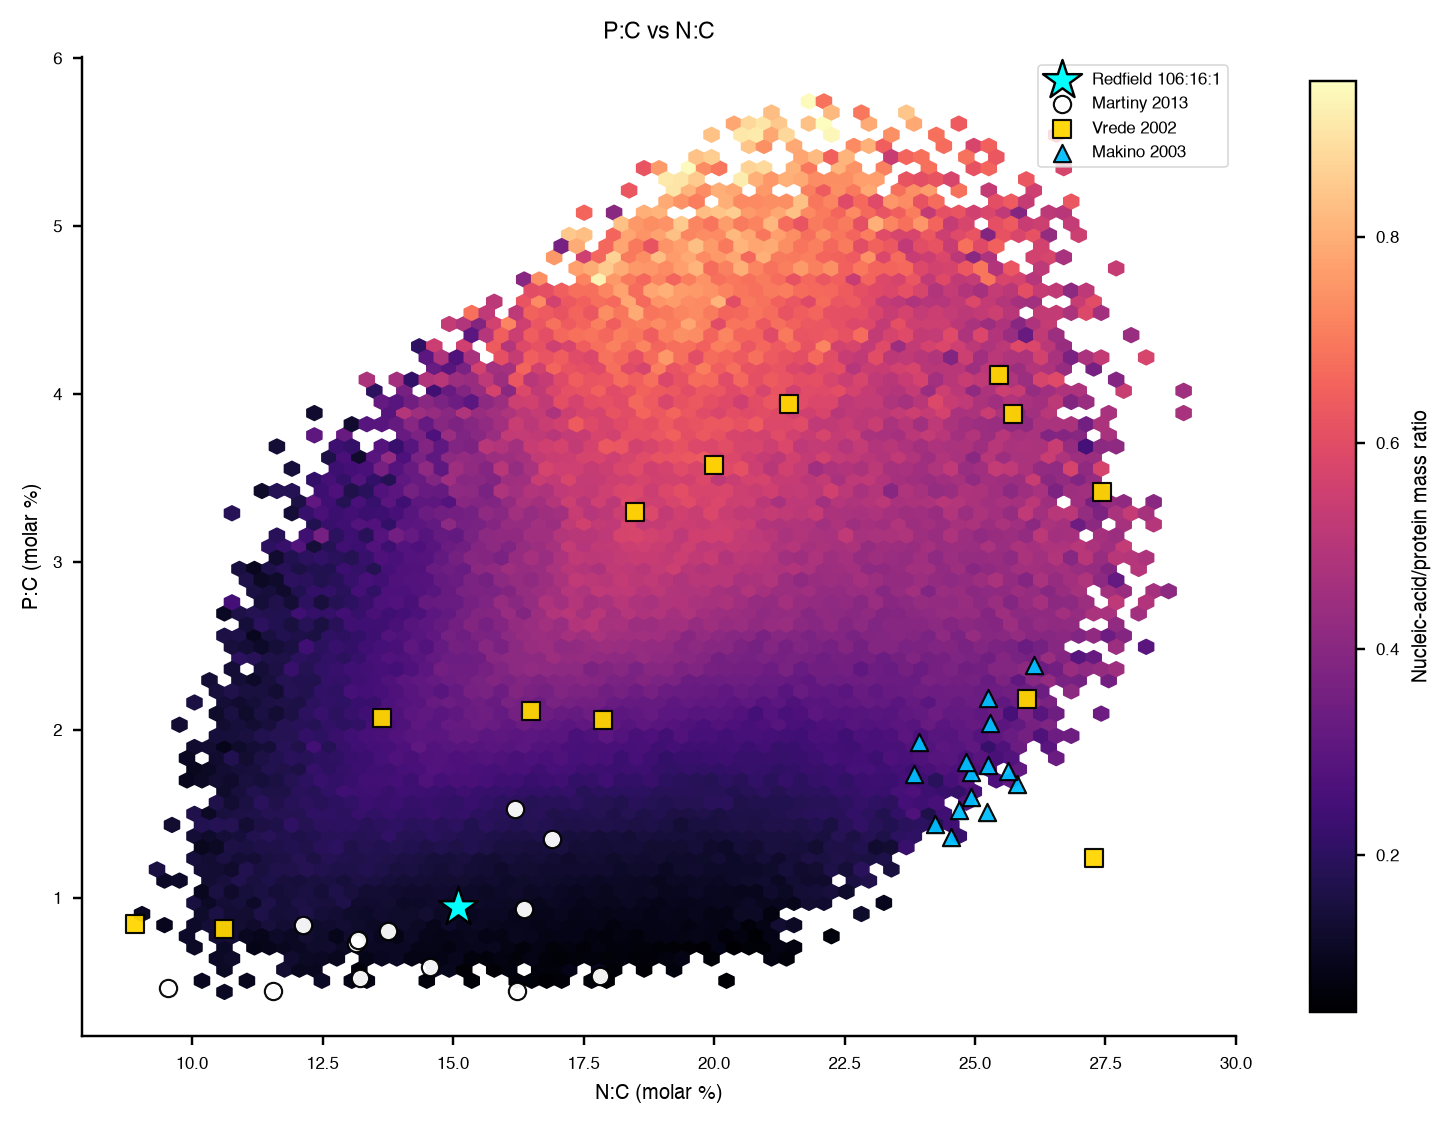
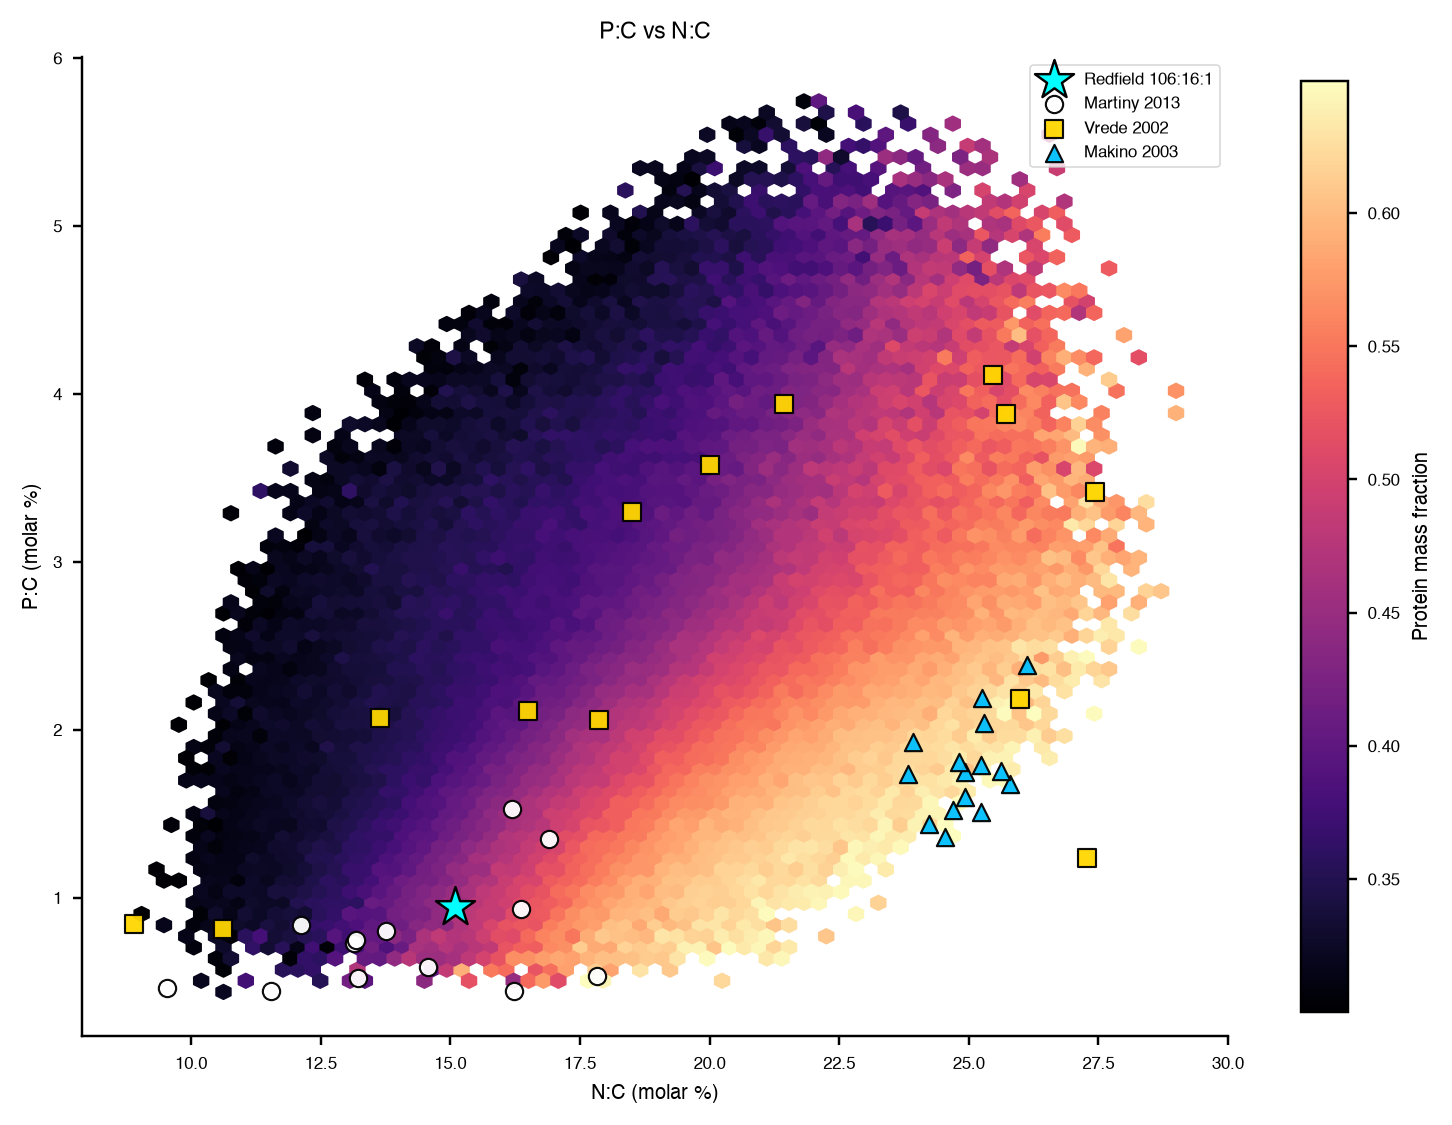
Color elemental-stoich plot by protein mass fraction, not NA:protein ratio

diff --git a/metabolism_low_dim/plotting.py b/metabolism_low_dim/plotting.py
@@ -18,13 +18,6 @@ def plot_phase_diagram(
     empirical_series: list[tuple[str, np.ndarray, np.ndarray]] | None = None,
 ) -> None:
     protein_fraction = mass_fractions[:, 0]
-    nucleic_acid_fraction = mass_fractions[:, 2]
-    na_to_protein_ratio = np.divide(
-        nucleic_acid_fraction,
-        protein_fraction,
-        out=np.zeros_like(nucleic_acid_fraction),
-        where=protein_fraction > 0.0,
-    )
     nc_percent = 100.0 * nc_ratio
     pc_percent = 100.0 * pc_ratio
 
@@ -33,7 +26,7 @@ def plot_phase_diagram(
     hb = ax.hexbin(
         nc_percent,
         pc_percent,
-        C=na_to_protein_ratio,
+        C=protein_fraction,
         reduce_C_function=np.mean,
         gridsize=70,
         mincnt=1,
@@ -77,6 +70,6 @@ def plot_phase_diagram(
     ax.legend(loc="best", frameon=True)
 
     cbar = fig.colorbar(hb, ax=ax, shrink=0.95)
-    cbar.set_label("Nucleic-acid/protein mass ratio")
+    cbar.set_label("Protein mass fraction")
     fig.savefig(outpath, dpi=220)
     plt.close(fig)
